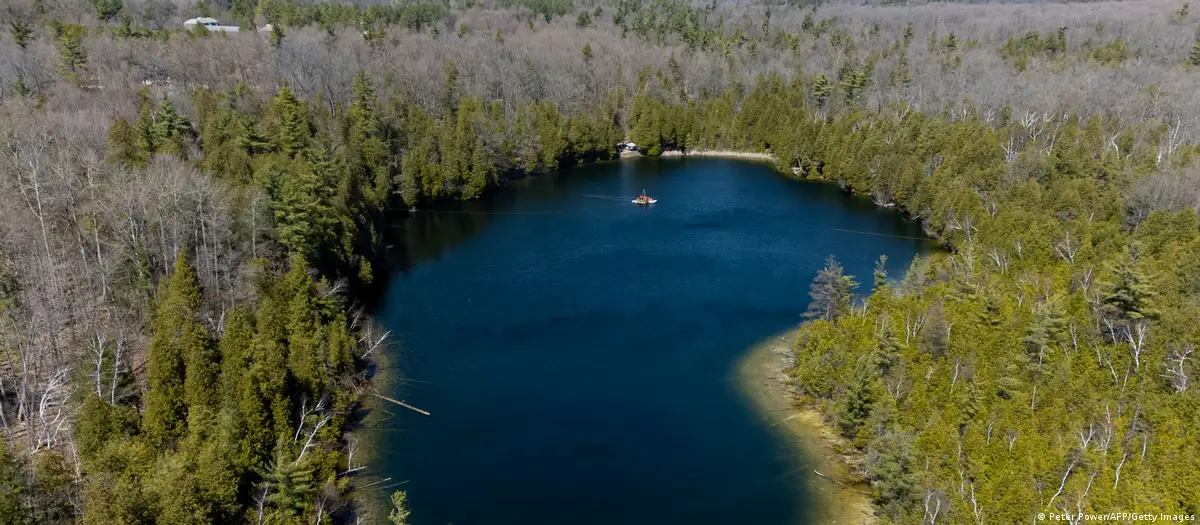
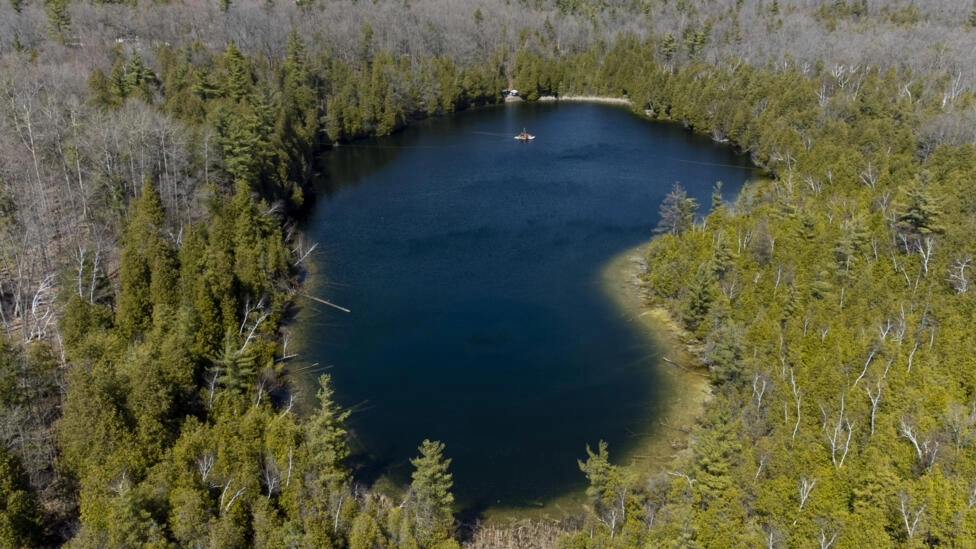
asd

diff --git a/index.html b/index.html
@@ -176,7 +176,7 @@
       
       <div class="item-with-image">
         <div class="image-container">
-          <img src="imagenes/lago.jpg" title=" Peter Power/AFP/Getty Images"/>
+          <img src="imagenes/lago.webp" title=" Peter Power/AFP/Getty Images"/>
         
   
         </div>
